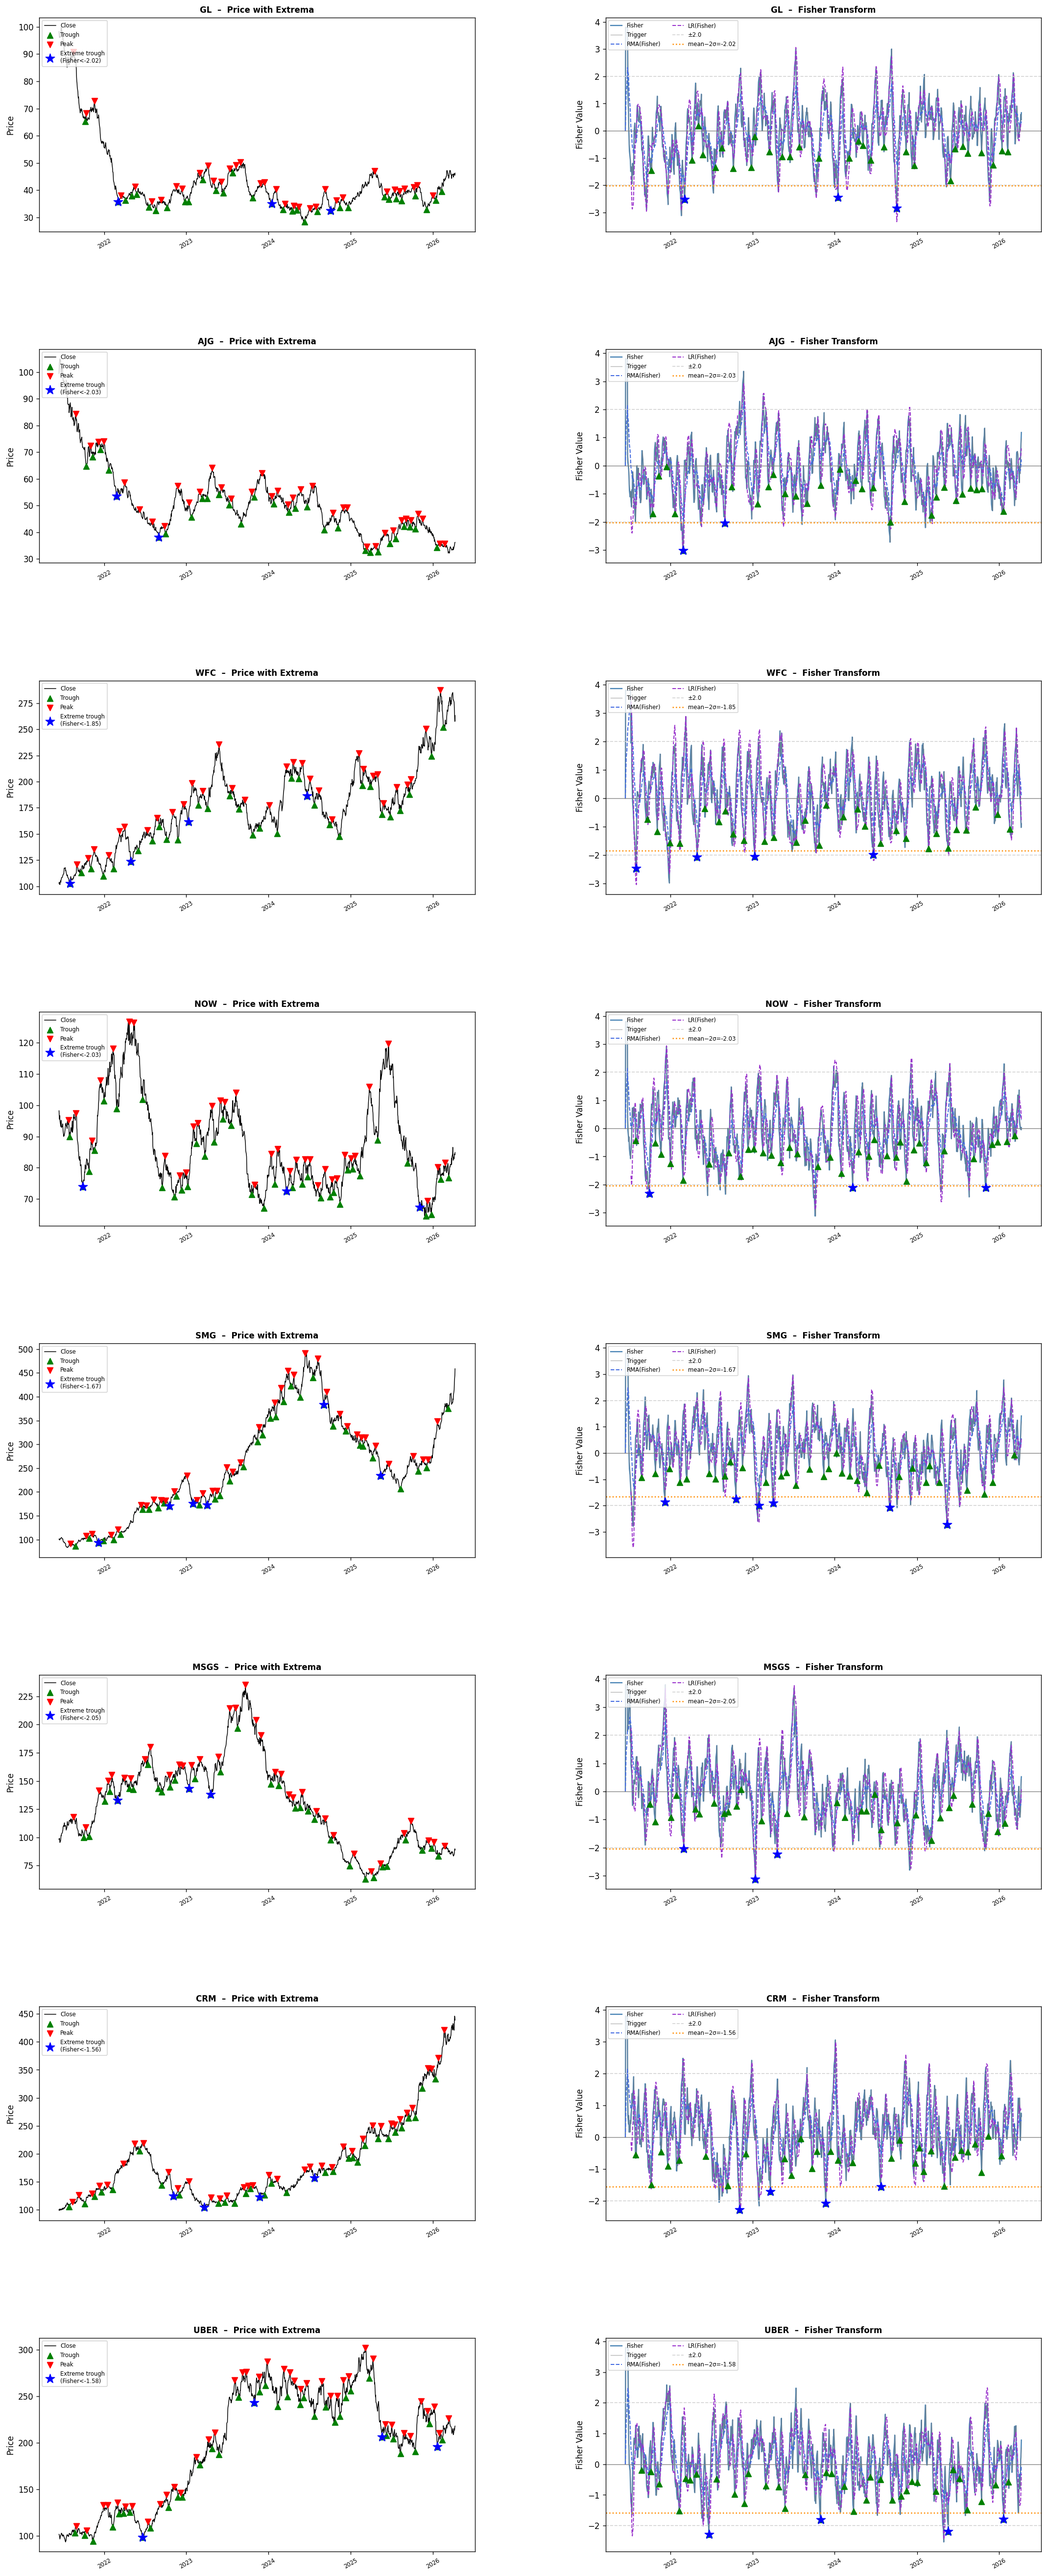
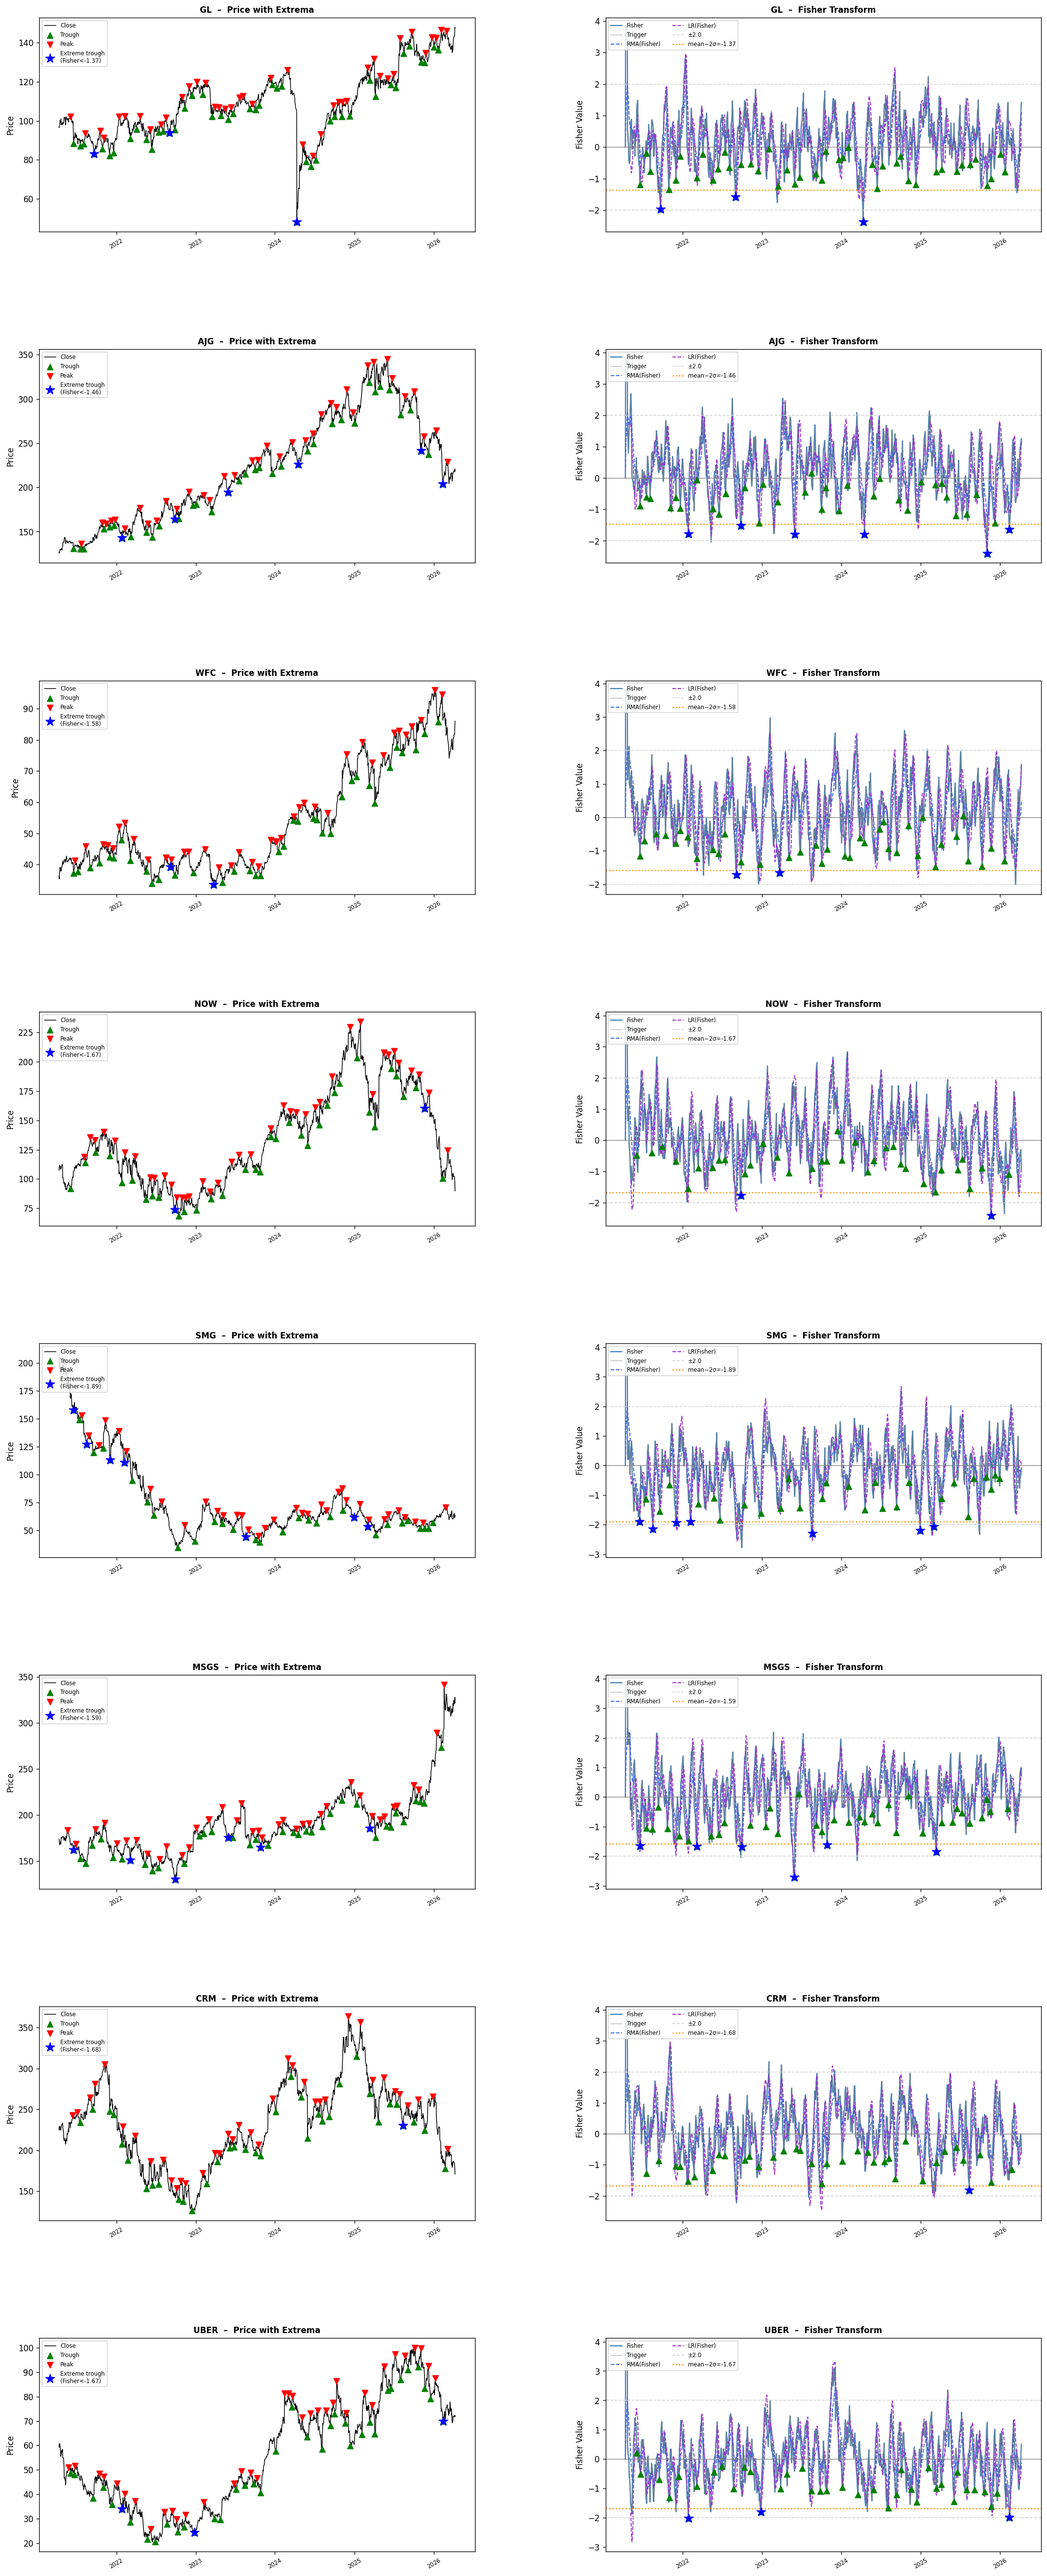
Fix CSV reader for yfinance multi-row header format and run on real data
yfinance CSVs have 3 header rows (Price / Ticker / Date label).
Updated pd.read_csv to use skiprows=[1,2] so the column names
are read correctly from row 0 and data rows are parsed cleanly.

fisher_analysis.png regenerated with real 5-year daily price data
for GL, AJG, WFC, NOW, SMG, MSGS, CRM, UBER.

https://claude.ai/code/session_01V626he6UKhE12u5CmHno24

diff --git a/fisher_extrema_analysis.py b/fisher_extrema_analysis.py
@@ -201,7 +201,13 @@ for idx, ticker in enumerate(TICKERS):
 
     csv_path = os.path.join(DATA_DIR, f"{ticker}.csv")
     if os.path.isfile(csv_path):
-        df = pd.read_csv(csv_path, index_col=0, parse_dates=True)
+        # yfinance saves CSVs with 3 header rows:
+        #   row 0: Price, Close, High, Low, Open, Volume
+        #   row 1: Ticker, GL, GL, ...
+        #   row 2: Date, , , ...
+        # Skip rows 1 & 2, use row 0 as column names, col 0 as DatetimeIndex.
+        df = pd.read_csv(csv_path, header=0, skiprows=[1, 2],
+                         index_col=0, parse_dates=True)
         if isinstance(df.columns, pd.MultiIndex):
             df.columns = df.columns.get_level_values(0)
         df = df.dropna(subset=["Close"])
